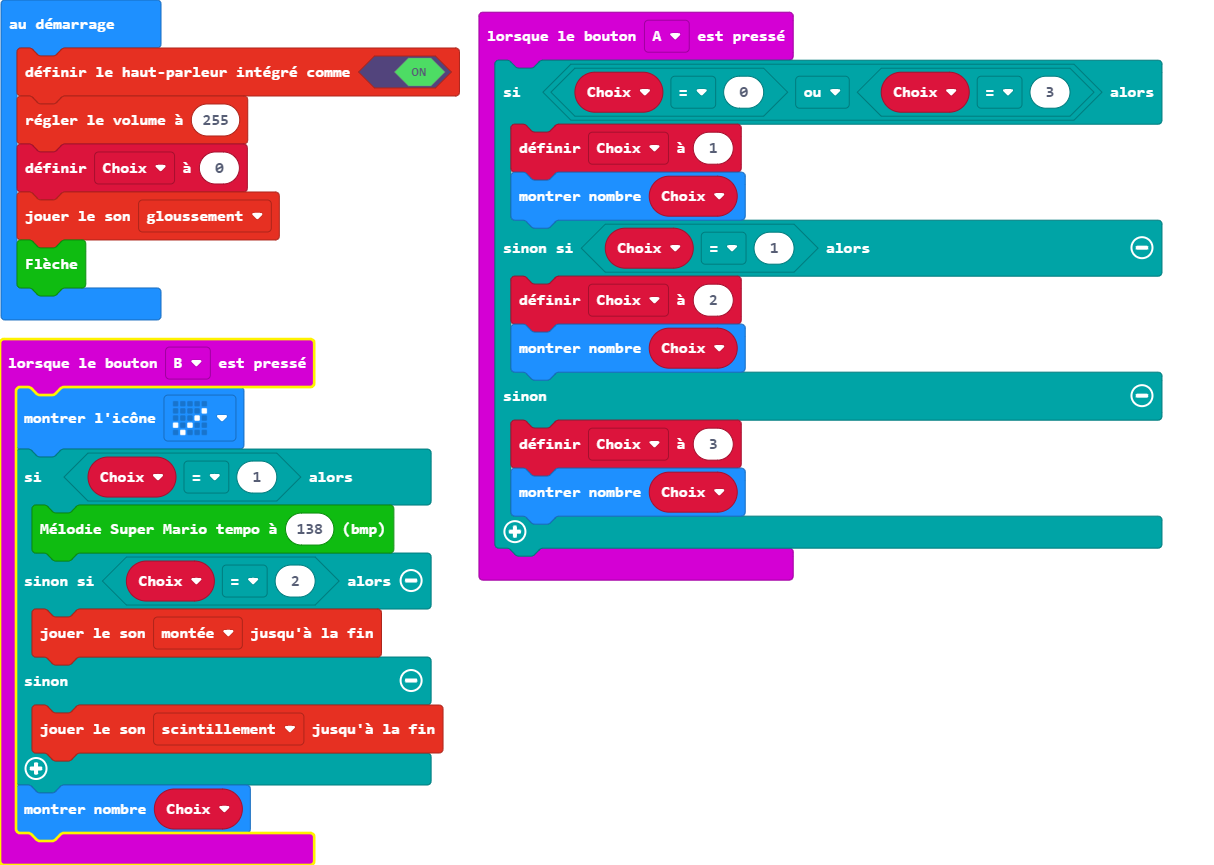
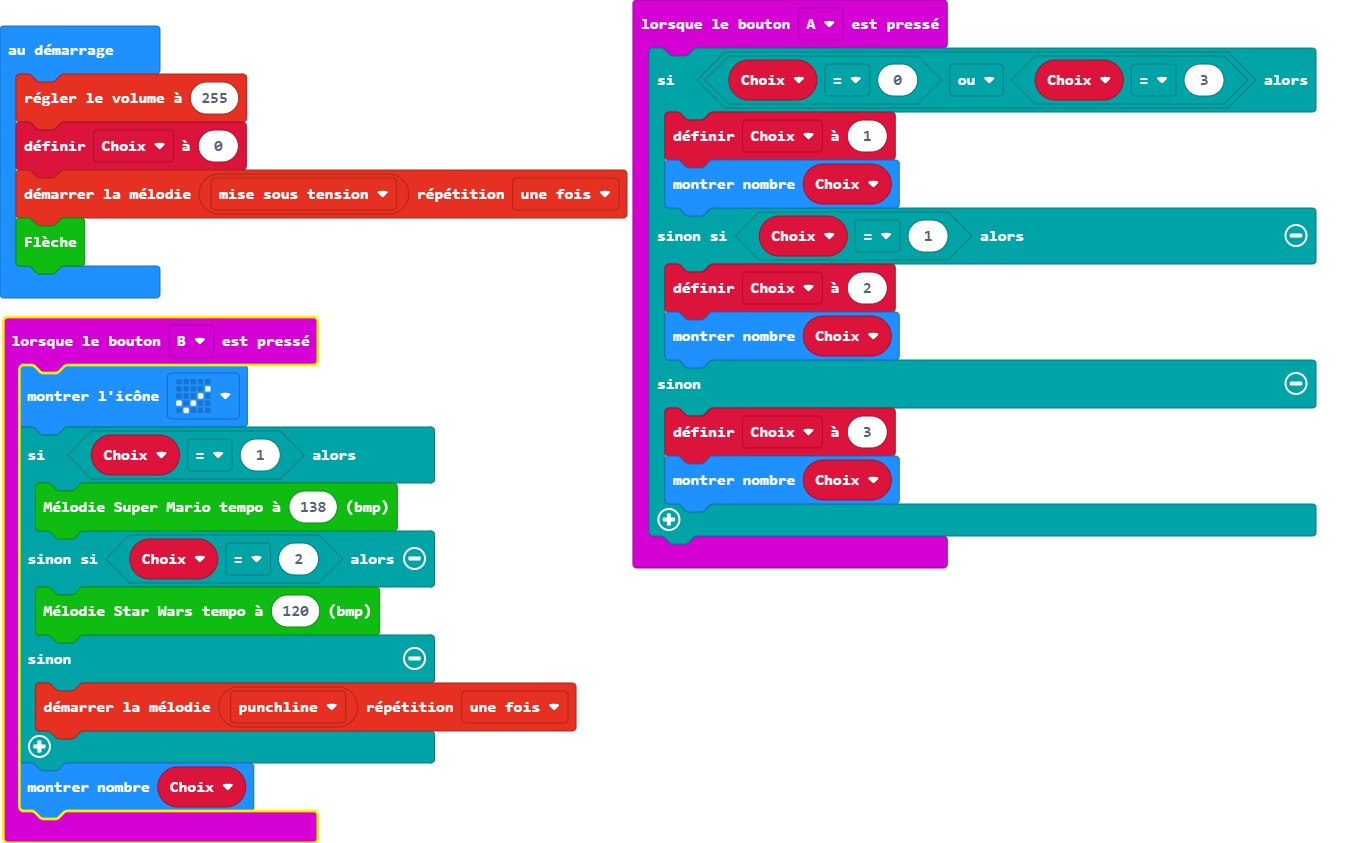
ajout de Star Wars

diff --git a/custom.ts b/custom.ts
@@ -159,4 +159,50 @@ namespace extra {
            
         }
     }
+    /**
+    * Jouer mélodie Star Wars
+    * @param tempo describe the beat, eg:120
+    */
+    //% block="Mélodie Star Wars tempo à $tempo (bmp)"
+    //% tempo.min=4 tempo.max=400
+    //% tempo.fieldOptions.precision=1
+    export function Star(tempo: number): void {
+        music.setTempo(tempo)
+        for (let index = 0; index < 4; index++) {
+            music.playTone(392, music.beat(BeatFraction.Quarter))
+            music.rest(music.beat(BeatFraction.Eighth))
+            music.playTone(392, music.beat(BeatFraction.Quarter))
+            music.rest(music.beat(BeatFraction.Eighth))
+            music.playTone(392, music.beat(BeatFraction.Quarter))
+            music.rest(music.beat(BeatFraction.Eighth))
+            music.playTone(262, music.beat(BeatFraction.Whole))
+            music.playTone(262, music.beat(BeatFraction.Whole))
+            music.playTone(392, music.beat(BeatFraction.Whole))
+            music.playTone(392, music.beat(BeatFraction.Whole))
+            music.playTone(349, music.beat(BeatFraction.Quarter))
+            music.rest(music.beat(BeatFraction.Eighth))
+            music.playTone(330, music.beat(BeatFraction.Quarter))
+            music.rest(music.beat(BeatFraction.Eighth))
+            music.playTone(294, music.beat(BeatFraction.Quarter))
+            music.playTone(523, music.beat(BeatFraction.Whole))
+            music.playTone(523, music.beat(BeatFraction.Whole))
+            music.playTone(392, music.beat(BeatFraction.Whole))
+            music.playTone(349, music.beat(BeatFraction.Quarter))
+            music.rest(music.beat(BeatFraction.Eighth))
+            music.playTone(330, music.beat(BeatFraction.Quarter))
+            music.rest(music.beat(BeatFraction.Eighth))
+            music.playTone(294, music.beat(BeatFraction.Quarter))
+            music.playTone(523, music.beat(BeatFraction.Whole))
+            music.playTone(523, music.beat(BeatFraction.Whole))
+            music.playTone(392, music.beat(BeatFraction.Whole))
+            music.playTone(349, music.beat(BeatFraction.Quarter))
+            music.rest(music.beat(BeatFraction.Eighth))
+            music.playTone(330, music.beat(BeatFraction.Quarter))
+            music.rest(music.beat(BeatFraction.Eighth))
+            music.playTone(349, music.beat(BeatFraction.Quarter))
+            music.rest(music.beat(BeatFraction.Eighth))
+            music.playTone(294, music.beat(BeatFraction.Whole))
+            music.playTone(294, music.beat(BeatFraction.Whole))
+        }
+    }
 }

diff --git a/main.ts b/main.ts
@@ -15,15 +15,14 @@ input.onButtonPressed(Button.B, function () {
     if (Choix == 1) {
         extra.Super(138)
     } else if (Choix == 2) {
-        soundExpression.soaring.playUntilDone()
+        extra.Star(120)
     } else {
-        soundExpression.twinkle.playUntilDone()
+        music.startMelody(music.builtInMelody(Melodies.Punchline), MelodyOptions.Once)
     }
     basic.showNumber(Choix)
 })
 let Choix = 0
-music.setBuiltInSpeakerEnabled(true)
 music.setVolume(255)
 Choix = 0
-soundExpression.giggle.play()
+music.startMelody(music.builtInMelody(Melodies.PowerUp), MelodyOptions.Once)
 extra.fleche()
